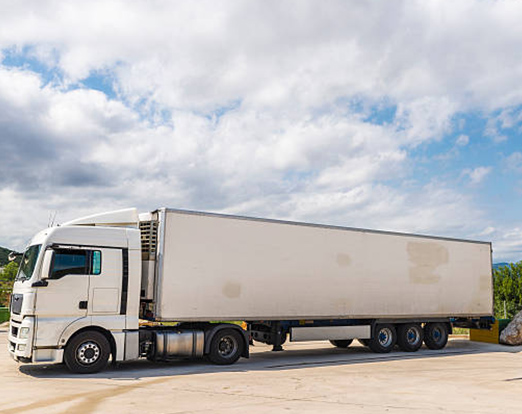
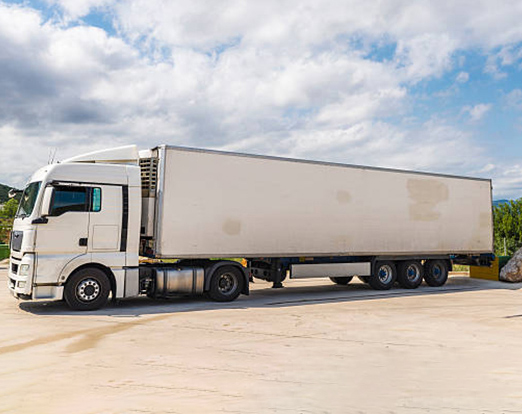
fix: remove cargo box truck and align reefer container image

diff --git a/index.html b/index.html
@@ -285,32 +285,13 @@
 				<div class="service-block">
 					<div class="inner-box">
 						<div class="image-box">
-							<figure class="image"><a href="#"><img src="images/vehicles/covered-trucks.jpg" alt=""></a></figure>
+							<figure class="image"><a href="#"><img src="images/vehicles/box-truck.jpg" alt=""></a></figure>
 						</div>
 						<div class="content-box">
 							<div class="icon-box"><i class="icon flaticon-delivery-truck-2"></i></div>
 							<h6 class="title"><a href="#">Covered Trucks</a></h6>
 							<div class="inner">
 								<div class="text">Weather-protected, secure delivery for delicate or private cargo.</div>
-								<ul>
-									<li>All sizes.</li>
-								</ul>
-								<!-- <a href="#" class="read-more">Learn more <i class="fa fa-arrow-up"></i></a> -->
-							</div>
-						</div>
-					</div>
-				</div>
-				<!-- Service Block -->
-				<div class="service-block">
-					<div class="inner-box">
-						<div class="image-box">
-							<figure class="image"><a href="#"><img src="images/vehicles/box-truck.jpg" alt="Box Truck"></a></figure>
-						</div>
-						<div class="content-box">
-							<div class="icon-box"><i class="icon flaticon-truck-1"></i></div>
-							<h6 class="title"><a href="#">Cargo Box Trucks</a></h6>
-							<div class="inner">
-								<div class="text">Enclosed transport trucks in all sizes—flexible for business deliveries or personal moves.</div>
 								<ul>
 									<li>All sizes.</li>
 								</ul>